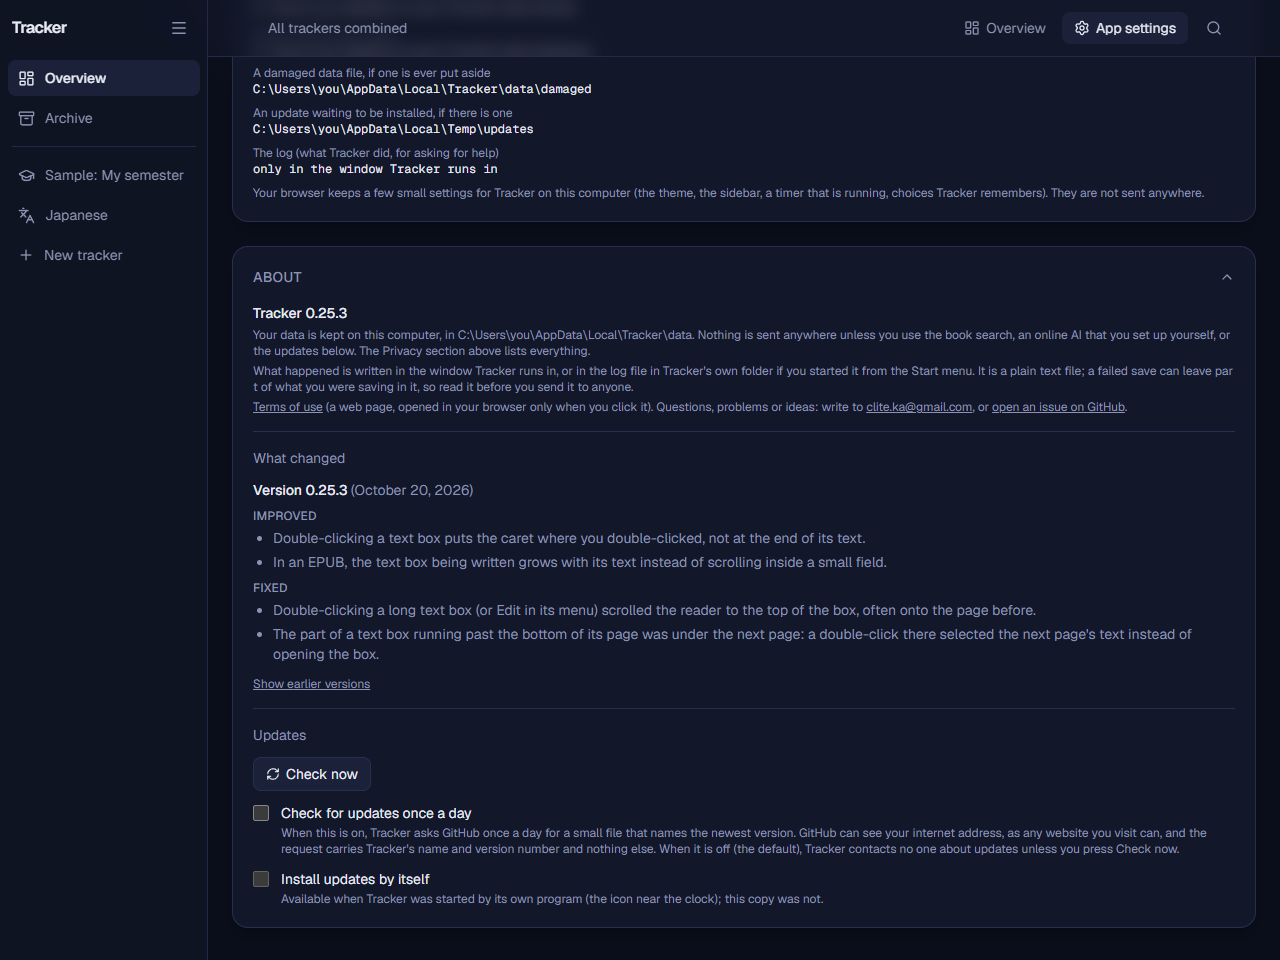
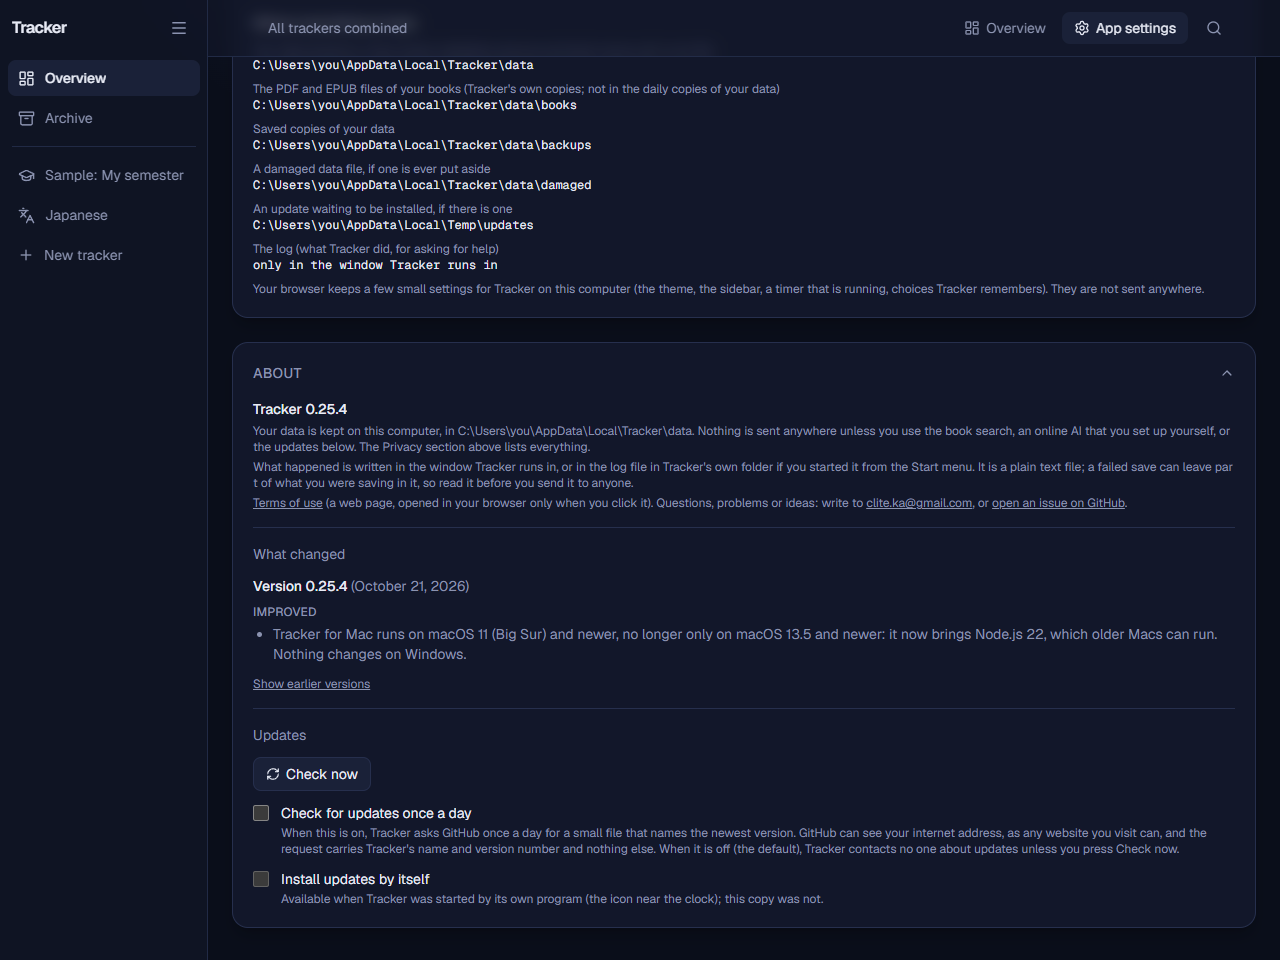
Update the site

Changed region(s): [[0.1875, 0.0625, 0.9688, 0.6875], [0.5, 0.0625, 0.5625, 0.0938]]

diff --git a/docs/manual.html b/docs/manual.html
@@ -23,7 +23,7 @@
   </header>
 
   <h1>The full user manual</h1>
-  <p class="lead">Everything Tracker does, part by part. New here? Start with <a href="guide.html">Getting started in ten minutes</a>. This manual describes version 0.25.3; later versions may add things, and App settings, About lists what changed.</p>
+  <p class="lead">Everything Tracker does, part by part. New here? Start with <a href="guide.html">Getting started in ten minutes</a>. This manual describes version 0.25.4; later versions may add things, and App settings, About lists what changed.</p>
 
   <div class="layout">
     <nav class="toc" aria-label="Contents">
@@ -89,12 +89,12 @@
 
         <h2 id="running">2. Installing, starting, quitting</h2>
         <h3>Installing</h3>
-        <p>Download <a href="https://github.com/cliteka-cell/tracker-releases/releases/latest/download/Tracker-Setup.exe">Tracker-Setup.exe</a> and open it. Windows may say &ldquo;Windows protected your PC&rdquo; because the program is not signed with a paid certificate: choose <strong>More info</strong>, then <strong>Run anyway</strong>. Setup installs for your user only and needs no administrator rights. It offers a Desktop shortcut and adds Tracker to the Start menu. Tracker works on Windows 10 and 11 (64-bit), and on macOS 13.5 or newer (below); there is no Linux version yet.</p>
+        <p>Download <a href="https://github.com/cliteka-cell/tracker-releases/releases/latest/download/Tracker-Setup.exe">Tracker-Setup.exe</a> and open it. Windows may say &ldquo;Windows protected your PC&rdquo; because the program is not signed with a paid certificate: choose <strong>More info</strong>, then <strong>Run anyway</strong>. Setup installs for your user only and needs no administrator rights. It offers a Desktop shortcut and adds Tracker to the Start menu. Tracker works on Windows 10 and 11 (64-bit), and on macOS 11 or newer (below); there is no Linux version yet.</p>
         <h3 id="mac">Install on a Mac</h3>
-        <p>Download <a href="https://github.com/cliteka-cell/tracker-releases/releases/latest/download/Tracker-Mac.dmg">Tracker-Mac.dmg</a> (one download for Apple Silicon and Intel Macs, macOS 13.5 or newer), open it, and drag Tracker onto the Applications folder. Tracker is not signed with a paid Apple certificate, so macOS stops it the first time, once:</p>
+        <p>Download <a href="https://github.com/cliteka-cell/tracker-releases/releases/latest/download/Tracker-Mac.dmg">Tracker-Mac.dmg</a> (one download for Apple Silicon and Intel Macs, macOS 11 or newer), open it, and drag Tracker onto the Applications folder. Tracker is not signed with a paid Apple certificate, so macOS stops it the first time, once:</p>
         <ul>
           <li>macOS 15 (Sequoia) and newer: open Tracker, close the message, then open System Settings, <strong>Privacy &amp; Security</strong>, scroll down to Security and press <strong>Open Anyway</strong> next to the line about Tracker, and confirm. The button is there for about an hour after the message.</li>
-          <li>macOS 13 and 14: Control-click (or right-click) Tracker in the Applications folder, choose <strong>Open</strong>, then <strong>Open</strong> again.</li>
+          <li>macOS 11 to 14 (Big Sur, Monterey, Ventura, Sonoma): Control-click (or right-click) Tracker in the Applications folder, choose <strong>Open</strong>, then <strong>Open</strong> again.</li>
         </ul>
         <p>After that it opens like any app, and updates from inside Tracker do not ask again. On a Mac, Tracker&rsquo;s icon is a small clock in the menu bar at the top right (it has no Dock icon); <strong>click</strong> it to open Tracker, <strong>Control-click</strong> it for its menu. Your data is in <code>~/Library/Application Support/Tracker/data</code> and the log in <code>~/Library/Application Support/Tracker/logs/tracker.log</code>. To remove it, quit Tracker and drag it to the Trash; the data folder stays until you delete it.</p>
         <h3>Starting</h3>
@@ -522,7 +522,7 @@
         <details><summary>Can I use it on my phone?</summary><p>Yes, while Tracker runs on your computer: turn on <em>Use Tracker from your phone</em> in App settings and pair the phone (see <a href="#phone">Your phone</a>). The phone opens Tracker on the computer; there is no separate phone app, and your data stays on the computer.</p></details>
         <details><summary>What happens to my data if I update?</summary><p>It stays. A newer version installs over the old one, brings the data file up to date if needed, and a copy is saved first.</p></details>
         <details><summary>How much data can it hold?</summary><p>It is built for years of daily use by one person; there is no fixed limit. Pictures in notes make the data file bigger, so the backups folder grows with them (daily copies are limited to 14). The PDF and EPUB files of your books are kept once, in the <code>books</code> folder, and are not copied into the backups.</p></details>
-        <details><summary>Does it work on a Mac or Linux?</summary><p>On a Mac, yes: macOS 13.5 or newer, Apple Silicon and Intel (<a href="#mac">Install on a Mac</a>). On Linux, not yet.</p></details>
+        <details><summary>Does it work on a Mac or Linux?</summary><p>On a Mac, yes: macOS 11 or newer, Apple Silicon and Intel (<a href="#mac">Install on a Mac</a>). On Linux, not yet.</p></details>
         <details><summary>Who made it, and how do I report a problem or suggest something?</summary><p>Kerem Ates makes it. Write to <a href="mailto:clite.ka@gmail.com">clite.ka@gmail.com</a>, or <a href="https://github.com/cliteka-cell/tracker-releases/issues">open an issue on GitHub</a> if you have a GitHub account. Please read your log first (see Troubleshooting) and do not send anything private.</p></details>
 
         <h2 id="glossary">23. Words used</h2>

diff --git a/docs/index.html b/docs/index.html
@@ -113,7 +113,7 @@ footer p { margin: 0 0 8px; }
         <a class="button" href="https://github.com/cliteka-cell/tracker-releases/releases/latest/download/Tracker-Mac.dmg">Download for Mac</a>
         <a class="button quiet" href="guide.html">Read the guide</a>
       </p>
-      <p class="small">Free to download and use. Windows 10 and 11 (64-bit), and macOS 13.5 or newer on Apple Silicon and Intel; there is no Linux version yet. Windows may say &ldquo;Windows protected your PC&rdquo; the first time, because the program is not signed with a paid certificate: choose &ldquo;More info&rdquo;, then &ldquo;Run anyway&rdquo;. A Mac asks once too: see <a href="manual.html#mac">Install on a Mac</a> (System Settings, Privacy &amp; Security, &ldquo;Open Anyway&rdquo;).</p>
+      <p class="small">Free to download and use. Windows 10 and 11 (64-bit), and macOS 11 or newer on Apple Silicon and Intel; there is no Linux version yet. Windows may say &ldquo;Windows protected your PC&rdquo; the first time, because the program is not signed with a paid certificate: choose &ldquo;More info&rdquo;, then &ldquo;Run anyway&rdquo;. A Mac asks once too: see <a href="manual.html#mac">Install on a Mac</a> (System Settings, Privacy &amp; Security, &ldquo;Open Anyway&rdquo;).</p>
       <figure class="shot">
         <a class="zoom" href="img/dashboard.png"><img src="img/dashboard.png" width="1280" height="860" alt="The Tracker dashboard: a timer with a Start button, weekly goals with progress bars for three courses, a long-term goal, the book being read and the most recent study sessions."></a>
         <figcaption>The dashboard, with made-up sample data (the program can add it for you to look around, and remove it again).</figcaption>
@@ -202,7 +202,7 @@ footer p { margin: 0 0 8px; }
       <details><summary>Can I move to another computer?</summary><p>Yes. In App settings, Data and backups you can take everything with you as one file or as a zip of readable data (pictures included), and restore it on the other computer. Saved keys are left out of those files on purpose.</p></details>
       <details><summary>What if something breaks?</summary><p>Tracker explains problems in plain words (a full disk, a damaged data file) and keeps a log file; App settings, About shows where. If you ask for help, read the log first: a failed save can leave a piece of what you were saving in it. You can <a href="https://github.com/cliteka-cell/tracker-releases/issues">open an issue on GitHub</a>, or write to <a href="mailto:clite.ka@gmail.com">clite.ka@gmail.com</a>.</p></details>
       <details><summary>How do I get in touch?</summary><p>Write to <a href="mailto:clite.ka@gmail.com">clite.ka@gmail.com</a>, or <a href="https://github.com/cliteka-cell/tracker-releases/issues">open an issue on GitHub</a> if you have a GitHub account. Questions, problems and ideas are all welcome.</p></details>
-      <details><summary>What about Linux?</summary><p>Not yet. Tracker runs on Windows 10 and 11 (64-bit) and on macOS 13.5 or newer (Apple Silicon and Intel).</p></details>
+      <details><summary>What about Linux?</summary><p>Not yet. Tracker runs on Windows 10 and 11 (64-bit) and on macOS 11 or newer (Apple Silicon and Intel).</p></details>
     </section>
   </main>
 
